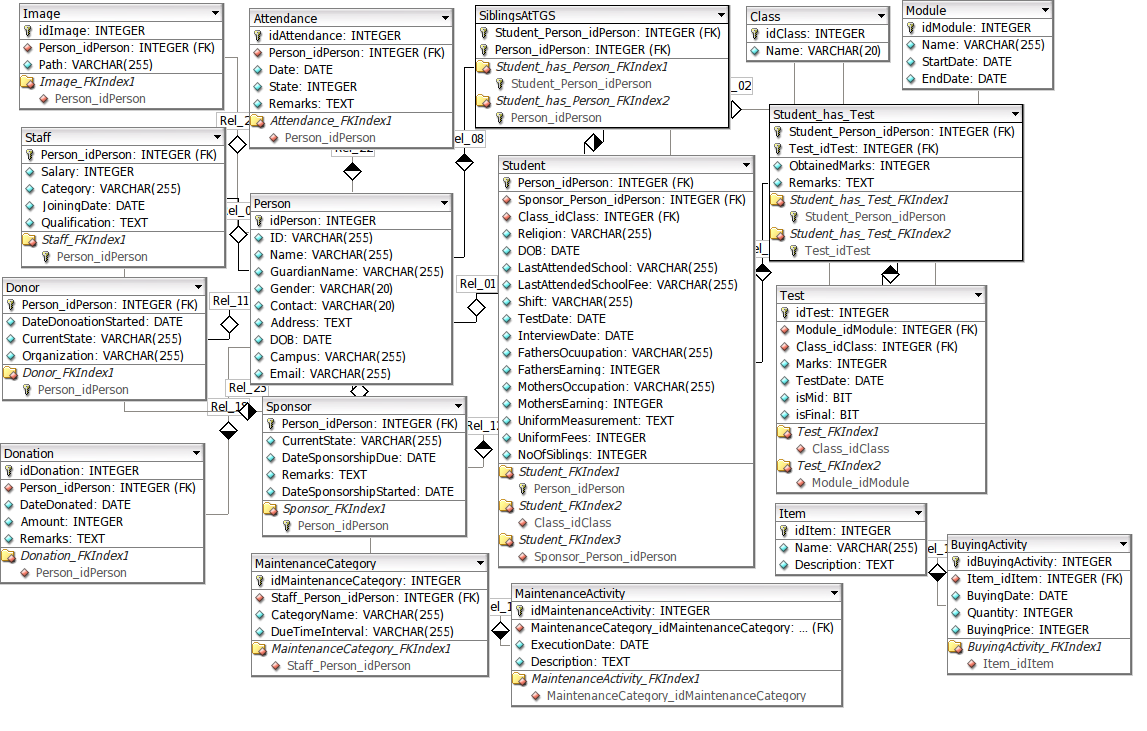
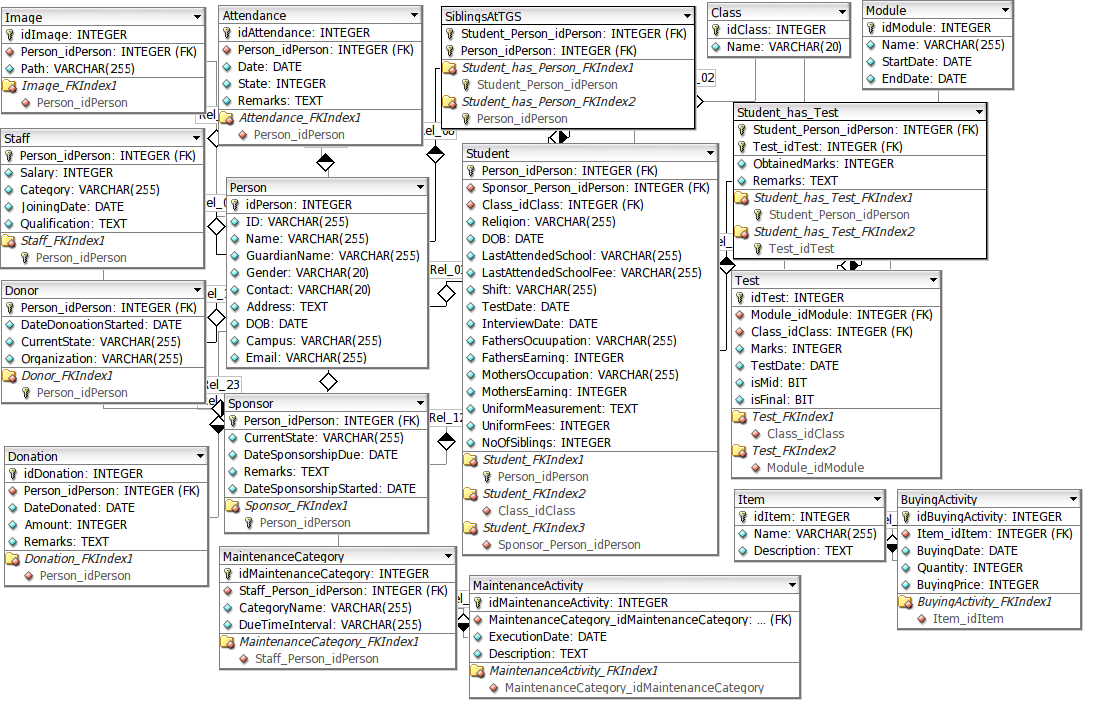
fixed ERD and added comments to app.py

diff --git a/front_end/edit_reg.html b/front_end/edit_reg.html
@@ -344,15 +344,10 @@
                 
                 <!-- DataTales Example -->
                 <div class="card shadow mb-4">
-                    <div class="card-header py-3">
-                        <h6 class="m-0 font-weight-bold text-primary">
-                            <a class="btn btn-primary" href="RegisterPerson.html">Register</a>
-                            <a class="btn btn-primary" href="RegistrationEdit.html">Edit Registration</a>
-                            <a class="btn btn-primary" href="Roles.html">Manage Roles</a> 
-                            <a class="btn btn-primary" href="RegistrationTransfer.html">Transfer Person</a>
-                        </h6>
-                    </div>
+                    
                     <div class="card-body">
+                        <h6 class="m-0 font-weight-bold text-primary">Select profile to edit</h6>
+            <hr>
 
 
                         <!-- <h6 class="m-0 font-weight-bold text-primary">Enter Personal Details</h6>

diff --git a/app.py b/app.py
@@ -4,16 +4,19 @@ from sqlalchemy.orm import scoped_session, sessionmaker
 
 app = Flask(__name__)
 
-engine = create_engine("mysql://root:@localhost/tgsapp")
+engine = create_engine("mysql://root:@127.0.0.1/tgsapplication")
 db = scoped_session(sessionmaker(bind=engine))
+
 
 @app.route("/")
 def index():
     return render_template("index.html")
 
+# this registration code has to be edited
+
 @app.route("/registerStudentLink")
 def registerStudentLink():
-    classes = db.execute("SELECT class.Name FROM class")
+    classes = db.execute("SELECT Class.Name FROM Class")
     return render_template("registerStudent.html", classes=classes)
 
 @app.route("/registerStudent", methods=["POST"])
@@ -57,17 +60,19 @@ def registerStaffLink():
 def registerStaff():
     return redirect(url_for('registerStaffLink'))
 
+# below code is running
+
 @app.route("/classLink")
 def classLink():
-    classes = db.execute("SELECT class.Name FROM class")
+    classes = db.execute("SELECT Class.Name FROM Class")
     return render_template("class.html", classes=classes)
 
 @app.route("/editClass", methods=["POST"])
 def editClass():
     existingClass = request.form.get('existingClasses')
-    idExistingClass = (list(db.execute("SELECT idClass FROM class WHERE class.Name = :className",{"className":existingClass})))[0][0]
+    idExistingClass = (list(db.execute("SELECT idClass FROM Class WHERE Class.Name = :className",{"className":existingClass})))[0][0]
     newClass = request.form.get('classEdited')
-    db.execute("UPDATE class SET class.Name = :newclass WHERE class.idClass = :id", {"newclass":newClass, "id":int(idExistingClass)})
+    db.execute("UPDATE Class SET Class.Name = :newclass WHERE Class.idClass = :id", {"newclass":newClass, "id":int(idExistingClass)})
     db.commit()
     return redirect(url_for('classLink'))
 
@@ -75,12 +80,12 @@ def editClass():
 def addClass():
     addClassName = request.form.get('className')
 
-    classes = db.execute("SELECT class.Name FROM class")
+    classes = db.execute("SELECT Class.Name FROM Class")
     for i in classes:
         if i.Name==addClassName:
             return redirect(url_for('classLink'))   #make a separate page for displaying a warning
 
-    db.execute("INSERT INTO class(Name) VALUES (:name)",{"name":addClassName})
+    db.execute("INSERT INTO Class(Name) VALUES (:name)",{"name":addClassName})
     db.commit()
     return redirect(url_for('classLink'))
 
